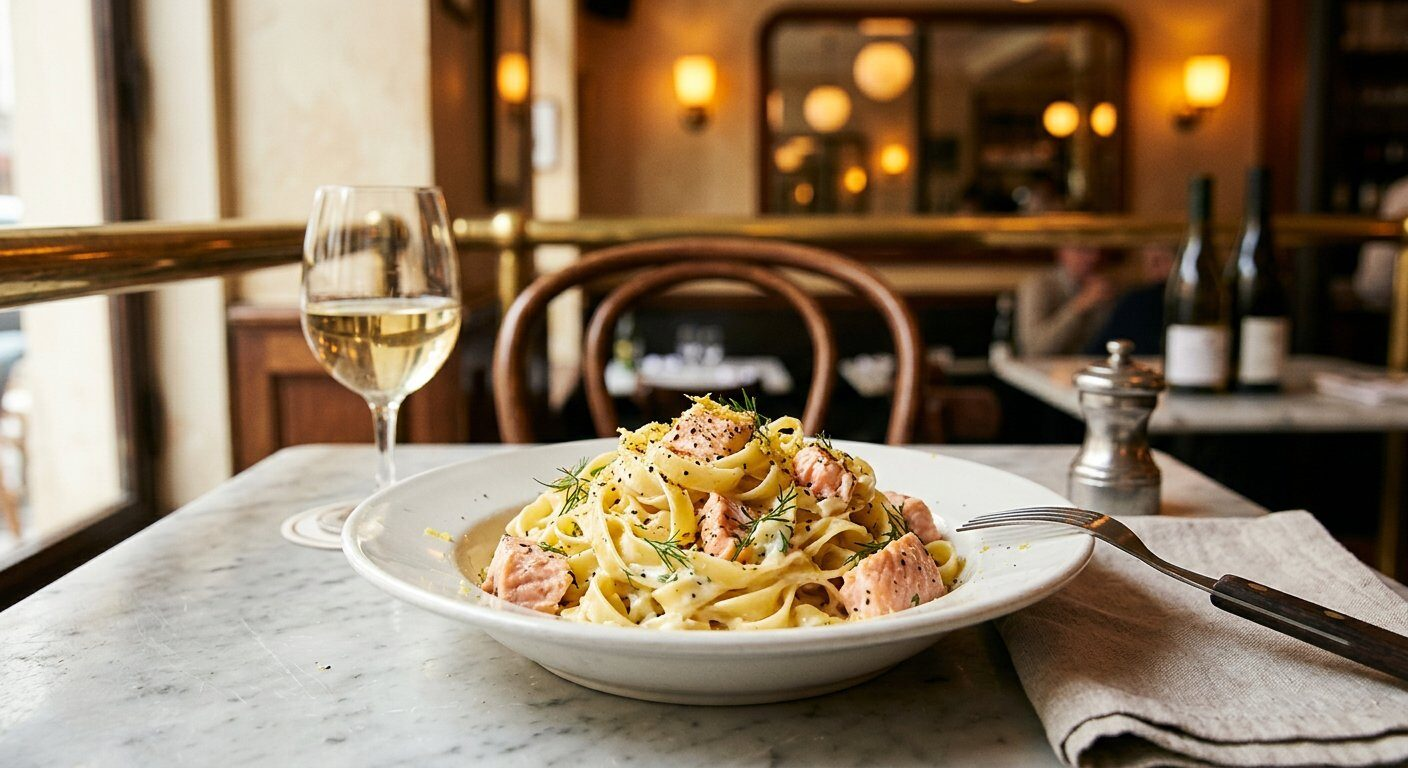
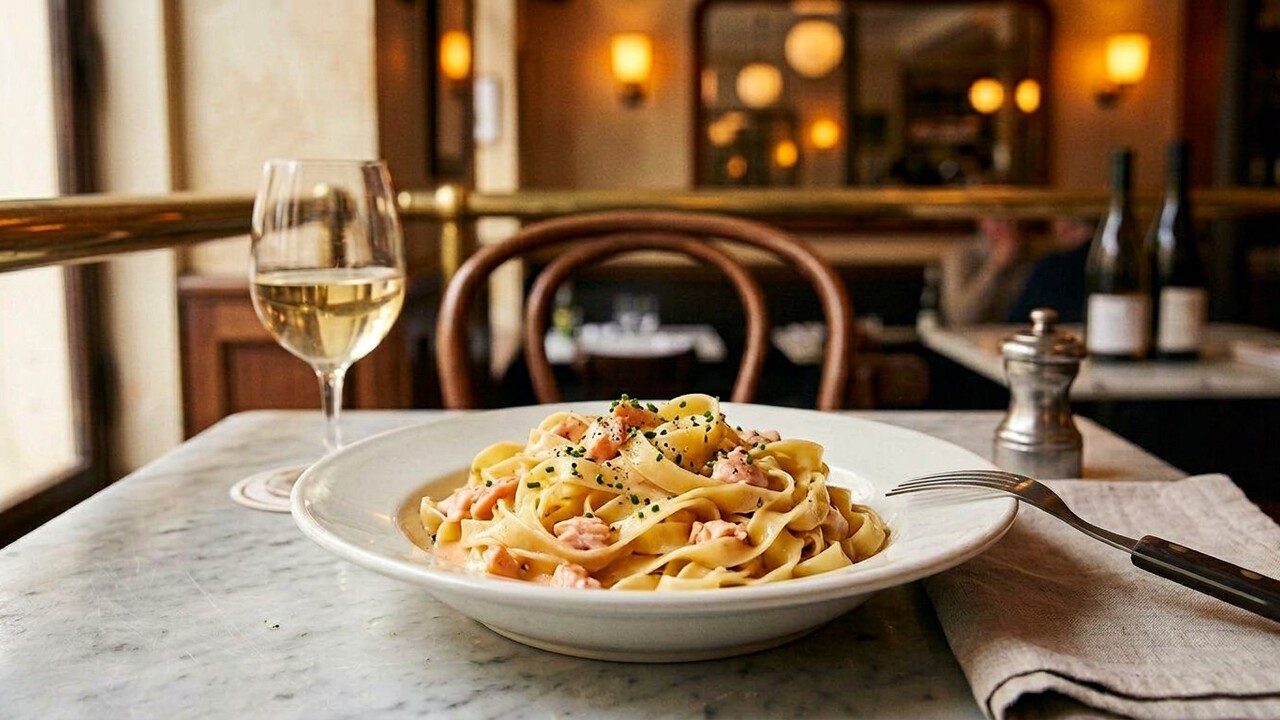
Corriger uniquement les tagliatelles avec petits morceaux de saumon mêlés

diff --git a/index.html b/index.html
@@ -11327,7 +11327,7 @@ html:not(.carte-doc) #plats .panel--couscous .food-card__photo img {
     </div>
     <div class="container">
       <section id="entrees" class="menu-section active"><div class="tab-flow"><article class="panel"><div class="panel__head"><h4 class="panel__title">Entrées</h4></div><div class="food-card-grid food-card-grid--wide"><article class="food-card menu-card-grid__item" data-photo="assets/plats/assiette-de-foie-gras-du-sud-ouest.jpg"><div class="food-card__head"><div class="food-card__lead"><h5>Assiette de foie gras du Sud-Ouest</h5><span class="food-card__note">Pain toasté, confiture d’abricots</span></div><strong>17,90</strong></div></article><article class="food-card menu-card-grid__item" data-photo="assets/plats/oeuf-dur-mayonnaise.jpg"><div class="food-card__head"><div class="food-card__lead"><h5>Œuf dur mayonnaise</h5></div><strong>6,20</strong></div></article><article class="food-card menu-card-grid__item" data-photo="assets/plats/6-escargots-au-roquefort.jpg"><div class="food-card__head"><div class="food-card__lead"><h5>6 Escargots au Roquefort</h5></div><strong>7,90</strong></div></article><article class="food-card menu-card-grid__item" data-photo="assets/plats/assiette-de-saumon-fume.jpg"><div class="food-card__head"><div class="food-card__lead"><h5>Assiette de saumon fumé</h5></div><strong>7,50</strong></div></article><article class="food-card menu-card-grid__item" data-photo="assets/plats/tartare-d-avocat-et-crevettes.jpg"><div class="food-card__head"><div class="food-card__lead"><h5>Tartare d’avocat et crevettes</h5></div><strong>7,90</strong></div></article><article class="food-card menu-card-grid__item" data-photo="assets/plats/oeuf-cocotte-du-moment.jpg"><div class="food-card__head"><div class="food-card__lead"><h5>Œuf cocotte du moment</h5></div><strong>7,90</strong></div></article></div></article><article class="panel"><div class="panel__head"><h4 class="panel__title">Planches &amp; croques</h4></div><div class="food-card-grid food-card-grid--wide"><article class="food-card menu-card-grid__item" data-photo="assets/plats/la-cochonnaille.jpg"><div class="food-card__head"><div class="food-card__lead"><h5>La Cochonnaille</h5></div><strong>17,50</strong></div></article><article class="food-card menu-card-grid__item" data-photo="assets/plats/la-fromagere.jpg"><div class="food-card__head"><div class="food-card__lead"><h5>La Fromagère</h5></div><strong>15,90</strong></div></article><article class="food-card menu-card-grid__item" data-photo="assets/plats/la-paysanne.jpg"><div class="food-card__head"><div class="food-card__lead"><h5>La Paysanne</h5><span class="food-card__note">Cochonnaille et fromagère</span></div><strong>19,90</strong></div></article><article class="food-card menu-card-grid__item" data-photo="assets/plats/croque-monsieur.jpg"><div class="food-card__head"><div class="food-card__lead"><h5>Croque-Monsieur</h5><span class="food-card__note">Sandwich grillé jambon-fromage, sauce béchamel</span><span class="food-card__note">Frites et salade</span></div><strong>11,70</strong></div></article><article class="food-card menu-card-grid__item" data-photo="assets/plats/croque-madame.jpg"><div class="food-card__head"><div class="food-card__lead"><h5>Croque-Madame</h5><span class="food-card__note">Sandwich grillé jambon-fromage, sauce béchamel, œuf au plat</span><span class="food-card__note">Frites et salade</span></div><strong>12,70</strong></div></article></div></article><article class="panel"><div class="panel__head"><h4 class="panel__title">Omelettes</h4></div><div class="food-card-grid food-card-grid--wide"><article class="food-card menu-card-grid__item" data-photo="assets/plats/oeufs-au-plat.jpg"><div class="food-card__head"><div class="food-card__lead"><h5>Œufs au plat</h5><span class="food-card__note">Salade</span></div><strong>9,90</strong></div></article><article class="food-card menu-card-grid__item" data-photo="assets/plats/omelette-nature.jpg"><div class="food-card__head"><div class="food-card__lead"><h5>Omelette nature</h5><span class="food-card__note">Salade</span></div><strong>9,90</strong></div></article><article class="food-card menu-card-grid__item" data-photo="assets/plats/omelette-au-fromage.jpg"><div class="food-card__head"><div class="food-card__lead"><h5>Omelette au fromage</h5><span class="food-card__note">Salade</span></div><strong>10,90</strong></div></article><article class="food-card menu-card-grid__item" data-photo="assets/plats/omelette-au-jambon.jpg"><div class="food-card__head"><div class="food-card__lead"><h5>Omelette au jambon</h5><span class="food-card__note">Salade</span></div><strong>10,90</strong></div></article><article class="food-card menu-card-grid__item" data-photo="assets/plats/omelette-mixte.jpg"><div class="food-card__head"><div class="food-card__lead"><h5>Omelette mixte</h5><span class="food-card__note">Salade</span></div><strong>13,90</strong></div></article><article class="food-card menu-card-grid__item" data-photo="assets/plats/omelette-aux-champignons.jpg"><div class="food-card__head"><div class="food-card__lead"><h5>Omelette aux champignons</h5><span class="food-card__note">Salade</span></div><strong>13,70</strong></div></article></div></article></div></section>
-<section id="plats" class="menu-section"><div class="tab-flow"><article class="panel"><div class="panel__head"><h4 class="panel__title">Plats</h4></div><div class="food-card-grid food-card-grid--wide"><article class="food-card menu-card-grid__item" data-photo="assets/plats/entrecote-190-g.jpg?v=20261024-originaux-restaures"><div class="food-card__head"><div class="food-card__lead"><h5>Entrecôte 190 g</h5><p class="food-card__note">Fleur de sel, sauce au choix</p></div><strong>19,90</strong></div></article><article class="food-card menu-card-grid__item" data-photo="assets/plats/bavette-d-aloyau.jpg?v=20261024-originaux-restaures"><div class="food-card__head"><div class="food-card__lead"><h5>Bavette d’aloyau</h5><p class="food-card__note">Sauce au choix</p></div><strong>17,50</strong></div></article><article class="food-card menu-card-grid__item" data-photo="assets/plats/escalope-de-veau.jpg?v=20261024-originaux-restaures"><div class="food-card__head"><div class="food-card__lead"><h5>Escalope de veau</h5><p class="food-card__note">Sauce champignons, pâtes</p></div><strong>19,90</strong></div></article><article class="food-card menu-card-grid__item" data-photo="assets/plats/cuisse-de-canard-confite.jpg?v=20261024-originaux-restaures"><div class="food-card__head"><div class="food-card__lead"><h5>Cuisse de canard confite</h5></div><strong>19,70</strong></div></article><article class="food-card menu-card-grid__item" data-photo="assets/plats/poisson.jpg?v=20261024-originaux-restaures"><div class="food-card__head"><div class="food-card__lead"><h5>Poisson</h5><p class="food-card__note">Selon l'arrivage</p></div><strong>17,90</strong></div></article><article class="food-card menu-card-grid__item" data-photo="assets/plats/tartare-de-boeuf.jpg?v=20261024-originaux-restaures"><div class="food-card__head"><div class="food-card__lead"><h5>Tartare de bœuf</h5></div><strong>17,80</strong></div></article><article class="food-card menu-card-grid__item" data-photo="assets/plats/cuisse-de-poulet-rotie.jpg?v=20261024-originaux-restaures"><div class="food-card__head"><div class="food-card__lead"><h5>Cuisse de poulet rôtie</h5><p class="food-card__note">Riz basmati</p></div><strong>15,20</strong></div></article></div></article><article class="panel"><div class="panel__head"><h4 class="panel__title">Burgers</h4></div><div class="food-card-grid"><article class="food-card menu-card-grid__item" data-photo="assets/plats/burger-la-colline.jpg?v=20261024-originaux-restaures"><div class="food-card__head"><div class="food-card__lead"><h5>Burger La Colline</h5><p class="food-card__note">Pain brioché, cheddar, steak haché, bacon, oignons caramélisés, salade, tomate, sauce burger.</p></div><strong>17,90</strong></div></article><article class="food-card menu-card-grid__item" data-photo="assets/plats/le-royal-fishburger.jpg?v=20261024-originaux-restaures"><div class="food-card__head"><div class="food-card__lead"><h5>Le Royal Fishburger</h5><p class="food-card__note">Pain brioché, cheddar, poisson pané, légumes grillés, salade, tomate, sauce burger.</p></div><strong>17,70</strong></div></article><article class="food-card menu-card-grid__item" data-photo="assets/plats/burger-chicken-croustillant.jpg?v=20261024-originaux-restaures"><div class="food-card__head"><div class="food-card__lead"><h5>Burger Chicken Croustillant</h5><p class="food-card__note">Pain brioché, cheddar, escalope de poulet pané croustillant, oignons caramélisés, salade, tomate, sauce burger.</p></div><strong>17,90</strong></div></article><article class="food-card menu-card-grid__item" data-photo="assets/plats/burger-vegetarien.jpg?v=20261024-originaux-restaures"><div class="food-card__head"><div class="food-card__lead"><h5>Burger Végétarien</h5><p class="food-card__note">Pain brioché, cheddar, steak végétarien, légumes grillés, salade, tomate, sauce burger.</p></div><strong>17,70</strong></div></article></div></article><article class="panel"><div class="panel__head"><h4 class="panel__title">Salades</h4></div><div class="food-card-grid"><article class="food-card menu-card-grid__item" data-photo="assets/plats/la-colline.jpg?v=20261024-originaux-restaures"><div class="food-card__head"><div class="food-card__lead"><h5>La Colline</h5><p class="food-card__note">Salade verte, tomate, escalope de poulet pané, œuf mimosa, croûton, toast de chèvre.</p></div><strong>16,90</strong></div></article><article class="food-card menu-card-grid__item" data-photo="assets/plats/chevre-chaud.jpg?v=20261024-originaux-restaures"><div class="food-card__head"><div class="food-card__lead"><h5>Chèvre Chaud</h5><p class="food-card__note">Salade verte, tomate, jambon sec, toast de cabécou, noix, miel.</p></div><strong>16,50</strong></div></article><article class="food-card menu-card-grid__item" data-photo="assets/plats/vegetarienne.jpg?v=20261024-originaux-restaures"><div class="food-card__head"><div class="food-card__lead"><h5>Végétarienne</h5><p class="food-card__note">Salade verte, tomate, concombre, haricots verts, légumes grillés, avocat.</p></div><strong>12,60</strong></div></article><article class="food-card menu-card-grid__item" data-photo="assets/plats/nordique.jpg?v=20261024-originaux-restaures"><div class="food-card__head"><div class="food-card__lead"><h5>Nordique</h5><p class="food-card__note">Salade verte, saumon fumé, crevettes, avocat, concombre, tomate, feta, croûtons.</p></div><strong>17,20</strong></div></article></div></article><article class="panel"><div class="panel__head"><h4 class="panel__title">Pâtes</h4></div><div class="food-card-grid"><article class="food-card menu-card-grid__item" data-photo="assets/plats/tagliatelles-a-la-carbonara.jpg?v=20261024-originaux-restaures"><div class="food-card__head"><div class="food-card__lead"><h5>Tagliatelles à la carbonara</h5></div><strong>15,90</strong></div></article><article class="food-card menu-card-grid__item" data-photo="assets/plats/tagliatelles-au-saumon.jpg?v=20261024-originaux-restaures"><div class="food-card__head"><div class="food-card__lead"><h5>Tagliatelles au saumon</h5></div><strong>16,20</strong></div></article><article class="food-card menu-card-grid__item" data-photo="assets/plats/penne-au-poulet-et-champignons.jpg?v=20261024-originaux-restaures"><div class="food-card__head"><div class="food-card__lead"><h5>Penne au poulet et champignons</h5></div><strong>16,50</strong></div></article></div></article><article class="panel panel--couscous"><div class="panel__head"><h4 class="panel__title">Couscous</h4><p class="panel__subtitle">À déguster chaque vendredi et samedi (midi et soir).</p></div><div class="food-card-grid"><article class="food-card menu-card-grid__item" data-photo="assets/plats/couscous-poulet.jpg?v=20261024-originaux-restaures"><div class="food-card__head"><div class="food-card__lead"><h5>Poulet</h5><p class="food-card__note">Semoule fine, légumes mijotés et bouillon maison.</p></div><strong>15,60</strong></div></article><article class="food-card menu-card-grid__item" data-photo="assets/plats/couscous-merguez.jpg?v=20261024-originaux-restaures"><div class="food-card__head"><div class="food-card__lead"><h5>Merguez</h5><p class="food-card__note">Semoule fine, légumes mijotés et bouillon maison.</p></div><strong>15,60</strong></div></article><article class="food-card menu-card-grid__item" data-photo="assets/plats/couscous-agneau.jpg?v=20261024-originaux-restaures"><div class="food-card__head"><div class="food-card__lead"><h5>Brochette d’agneau</h5><p class="food-card__note">Semoule fine, légumes mijotés et bouillon maison.</p></div><strong>16,50</strong></div></article><article class="food-card menu-card-grid__item" data-photo="assets/plats/couscous-boeuf.jpg?v=20261024-originaux-restaures"><div class="food-card__head"><div class="food-card__lead"><h5>Bœuf</h5><p class="food-card__note">Semoule fine, légumes mijotés et bouillon maison.</p></div><strong>16,50</strong></div></article><article class="food-card menu-card-grid__item" data-photo="assets/plats/couscous-vegetarien.jpg?v=20261024-originaux-restaures"><div class="food-card__head"><div class="food-card__lead"><h5>Végétarien</h5><p class="food-card__note">Semoule fine, légumes mijotés et bouillon maison.</p></div><strong>13,50</strong></div></article><article class="food-card menu-card-grid__item" data-photo="assets/plats/couscous-trois-viandes.jpg?v=20261024-originaux-restaures"><div class="food-card__head"><div class="food-card__lead"><h5>La Colline</h5><p class="food-card__note">Poulet, agneau et bœuf. Semoule fine, légumes mijotés et bouillon maison.</p></div><strong>22,90</strong></div></article></div></article><article class="panel panel--accent"><div class="accent-band"><img class="accent-band__motif" src="assets/menus/motif-80a.png" alt="" aria-hidden="true" loading="lazy" width="80" height="80"><div class="accent-band__title"><strong>Assiette de frites</strong><span>4,90</span></div><p>Accompagnement : frites, haricots verts, pâtes</p><p class="accent-band__sauce">Sauce au choix : poivre · champignons · roquefort — supplément sauce 2,00</p></div></article></div></section>
+<section id="plats" class="menu-section"><div class="tab-flow"><article class="panel"><div class="panel__head"><h4 class="panel__title">Plats</h4></div><div class="food-card-grid food-card-grid--wide"><article class="food-card menu-card-grid__item" data-photo="assets/plats/entrecote-190-g.jpg?v=20261024-originaux-restaures"><div class="food-card__head"><div class="food-card__lead"><h5>Entrecôte 190 g</h5><p class="food-card__note">Fleur de sel, sauce au choix</p></div><strong>19,90</strong></div></article><article class="food-card menu-card-grid__item" data-photo="assets/plats/bavette-d-aloyau.jpg?v=20261024-originaux-restaures"><div class="food-card__head"><div class="food-card__lead"><h5>Bavette d’aloyau</h5><p class="food-card__note">Sauce au choix</p></div><strong>17,50</strong></div></article><article class="food-card menu-card-grid__item" data-photo="assets/plats/escalope-de-veau.jpg?v=20261024-originaux-restaures"><div class="food-card__head"><div class="food-card__lead"><h5>Escalope de veau</h5><p class="food-card__note">Sauce champignons, pâtes</p></div><strong>19,90</strong></div></article><article class="food-card menu-card-grid__item" data-photo="assets/plats/cuisse-de-canard-confite.jpg?v=20261024-originaux-restaures"><div class="food-card__head"><div class="food-card__lead"><h5>Cuisse de canard confite</h5></div><strong>19,70</strong></div></article><article class="food-card menu-card-grid__item" data-photo="assets/plats/poisson.jpg?v=20261024-originaux-restaures"><div class="food-card__head"><div class="food-card__lead"><h5>Poisson</h5><p class="food-card__note">Selon l'arrivage</p></div><strong>17,90</strong></div></article><article class="food-card menu-card-grid__item" data-photo="assets/plats/tartare-de-boeuf.jpg?v=20261024-originaux-restaures"><div class="food-card__head"><div class="food-card__lead"><h5>Tartare de bœuf</h5></div><strong>17,80</strong></div></article><article class="food-card menu-card-grid__item" data-photo="assets/plats/cuisse-de-poulet-rotie.jpg?v=20261024-originaux-restaures"><div class="food-card__head"><div class="food-card__lead"><h5>Cuisse de poulet rôtie</h5><p class="food-card__note">Riz basmati</p></div><strong>15,20</strong></div></article></div></article><article class="panel"><div class="panel__head"><h4 class="panel__title">Burgers</h4></div><div class="food-card-grid"><article class="food-card menu-card-grid__item" data-photo="assets/plats/burger-la-colline.jpg?v=20261024-originaux-restaures"><div class="food-card__head"><div class="food-card__lead"><h5>Burger La Colline</h5><p class="food-card__note">Pain brioché, cheddar, steak haché, bacon, oignons caramélisés, salade, tomate, sauce burger.</p></div><strong>17,90</strong></div></article><article class="food-card menu-card-grid__item" data-photo="assets/plats/le-royal-fishburger.jpg?v=20261024-originaux-restaures"><div class="food-card__head"><div class="food-card__lead"><h5>Le Royal Fishburger</h5><p class="food-card__note">Pain brioché, cheddar, poisson pané, légumes grillés, salade, tomate, sauce burger.</p></div><strong>17,70</strong></div></article><article class="food-card menu-card-grid__item" data-photo="assets/plats/burger-chicken-croustillant.jpg?v=20261024-originaux-restaures"><div class="food-card__head"><div class="food-card__lead"><h5>Burger Chicken Croustillant</h5><p class="food-card__note">Pain brioché, cheddar, escalope de poulet pané croustillant, oignons caramélisés, salade, tomate, sauce burger.</p></div><strong>17,90</strong></div></article><article class="food-card menu-card-grid__item" data-photo="assets/plats/burger-vegetarien.jpg?v=20261024-originaux-restaures"><div class="food-card__head"><div class="food-card__lead"><h5>Burger Végétarien</h5><p class="food-card__note">Pain brioché, cheddar, steak végétarien, légumes grillés, salade, tomate, sauce burger.</p></div><strong>17,70</strong></div></article></div></article><article class="panel"><div class="panel__head"><h4 class="panel__title">Salades</h4></div><div class="food-card-grid"><article class="food-card menu-card-grid__item" data-photo="assets/plats/la-colline.jpg?v=20261024-originaux-restaures"><div class="food-card__head"><div class="food-card__lead"><h5>La Colline</h5><p class="food-card__note">Salade verte, tomate, escalope de poulet pané, œuf mimosa, croûton, toast de chèvre.</p></div><strong>16,90</strong></div></article><article class="food-card menu-card-grid__item" data-photo="assets/plats/chevre-chaud.jpg?v=20261024-originaux-restaures"><div class="food-card__head"><div class="food-card__lead"><h5>Chèvre Chaud</h5><p class="food-card__note">Salade verte, tomate, jambon sec, toast de cabécou, noix, miel.</p></div><strong>16,50</strong></div></article><article class="food-card menu-card-grid__item" data-photo="assets/plats/vegetarienne.jpg?v=20261024-originaux-restaures"><div class="food-card__head"><div class="food-card__lead"><h5>Végétarienne</h5><p class="food-card__note">Salade verte, tomate, concombre, haricots verts, légumes grillés, avocat.</p></div><strong>12,60</strong></div></article><article class="food-card menu-card-grid__item" data-photo="assets/plats/nordique.jpg?v=20261024-originaux-restaures"><div class="food-card__head"><div class="food-card__lead"><h5>Nordique</h5><p class="food-card__note">Salade verte, saumon fumé, crevettes, avocat, concombre, tomate, feta, croûtons.</p></div><strong>17,20</strong></div></article></div></article><article class="panel"><div class="panel__head"><h4 class="panel__title">Pâtes</h4></div><div class="food-card-grid"><article class="food-card menu-card-grid__item" data-photo="assets/plats/tagliatelles-a-la-carbonara.jpg?v=20261024-originaux-restaures"><div class="food-card__head"><div class="food-card__lead"><h5>Tagliatelles à la carbonara</h5></div><strong>15,90</strong></div></article><article class="food-card menu-card-grid__item" data-photo="assets/plats/tagliatelles-au-saumon.jpg?v=20261024-saumon-morceaux"><div class="food-card__head"><div class="food-card__lead"><h5>Tagliatelles au saumon</h5></div><strong>16,20</strong></div></article><article class="food-card menu-card-grid__item" data-photo="assets/plats/penne-au-poulet-et-champignons.jpg?v=20261024-originaux-restaures"><div class="food-card__head"><div class="food-card__lead"><h5>Penne au poulet et champignons</h5></div><strong>16,50</strong></div></article></div></article><article class="panel panel--couscous"><div class="panel__head"><h4 class="panel__title">Couscous</h4><p class="panel__subtitle">À déguster chaque vendredi et samedi (midi et soir).</p></div><div class="food-card-grid"><article class="food-card menu-card-grid__item" data-photo="assets/plats/couscous-poulet.jpg?v=20261024-originaux-restaures"><div class="food-card__head"><div class="food-card__lead"><h5>Poulet</h5><p class="food-card__note">Semoule fine, légumes mijotés et bouillon maison.</p></div><strong>15,60</strong></div></article><article class="food-card menu-card-grid__item" data-photo="assets/plats/couscous-merguez.jpg?v=20261024-originaux-restaures"><div class="food-card__head"><div class="food-card__lead"><h5>Merguez</h5><p class="food-card__note">Semoule fine, légumes mijotés et bouillon maison.</p></div><strong>15,60</strong></div></article><article class="food-card menu-card-grid__item" data-photo="assets/plats/couscous-agneau.jpg?v=20261024-originaux-restaures"><div class="food-card__head"><div class="food-card__lead"><h5>Brochette d’agneau</h5><p class="food-card__note">Semoule fine, légumes mijotés et bouillon maison.</p></div><strong>16,50</strong></div></article><article class="food-card menu-card-grid__item" data-photo="assets/plats/couscous-boeuf.jpg?v=20261024-originaux-restaures"><div class="food-card__head"><div class="food-card__lead"><h5>Bœuf</h5><p class="food-card__note">Semoule fine, légumes mijotés et bouillon maison.</p></div><strong>16,50</strong></div></article><article class="food-card menu-card-grid__item" data-photo="assets/plats/couscous-vegetarien.jpg?v=20261024-originaux-restaures"><div class="food-card__head"><div class="food-card__lead"><h5>Végétarien</h5><p class="food-card__note">Semoule fine, légumes mijotés et bouillon maison.</p></div><strong>13,50</strong></div></article><article class="food-card menu-card-grid__item" data-photo="assets/plats/couscous-trois-viandes.jpg?v=20261024-originaux-restaures"><div class="food-card__head"><div class="food-card__lead"><h5>La Colline</h5><p class="food-card__note">Poulet, agneau et bœuf. Semoule fine, légumes mijotés et bouillon maison.</p></div><strong>22,90</strong></div></article></div></article><article class="panel panel--accent"><div class="accent-band"><img class="accent-band__motif" src="assets/menus/motif-80a.png" alt="" aria-hidden="true" loading="lazy" width="80" height="80"><div class="accent-band__title"><strong>Assiette de frites</strong><span>4,90</span></div><p>Accompagnement : frites, haricots verts, pâtes</p><p class="accent-band__sauce">Sauce au choix : poivre · champignons · roquefort — supplément sauce 2,00</p></div></article></div></section>
 <section id="menus" class="menu-section"><div class="tab-flow"><article class="panel"><div class="panel__head"><h4 class="panel__title">Formules</h4></div>
 <div class="fm" data-ref="Formules.pdf">
   <!-- ============ Formule « duo » : entrée + plat, ou plat + dessert ============ -->

diff --git a/tools/PHOTO_STYLE.md b/tools/PHOTO_STYLE.md
@@ -1,5 +1,12 @@
 # Ton photographique du site
 
+### Exception expressément demandée après restauration
+Uniquement `tagliatelles-au-saumon.jpg` : le propriétaire a choisi des petits
+morceaux de saumon mêlés aux pâtes. Photo corrigée en conservant le décor
+original. Les23autres restent identiques aux originaux. Ne pas relancer
+la campagne de décor/cadrage ; les consignes historiques restent suspendues.
+
+
 ## Priorité actuelle : RESTAURATION DES ORIGINAUX — STOP AUX RETOUCHES
 Le propriétaire a rejeté les nouvelles photos et demandé le retour aux
 originaux. Les24photos de Nos plats ont été restaurées **octet pour octet**
